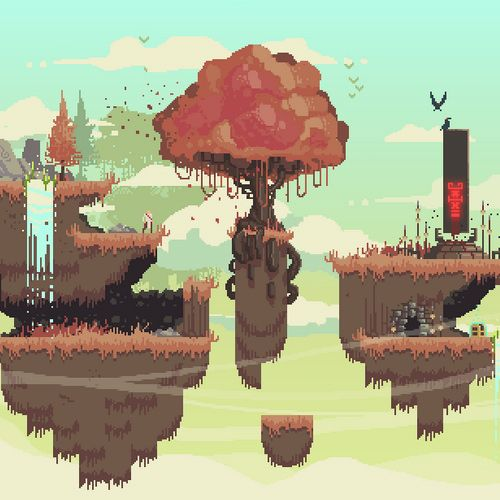
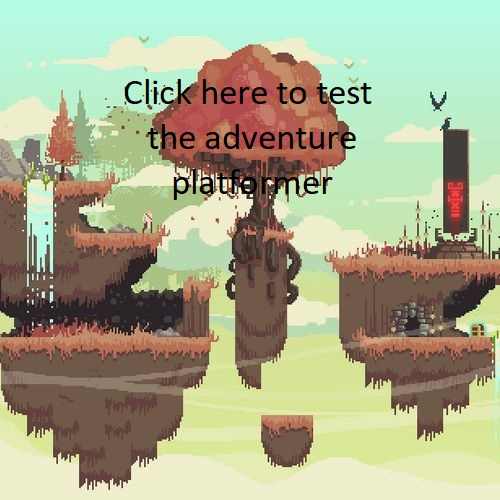
HTML instructions
Changes to the html for instructions on how to play the games

Changed region(s): [[0.24, 0.15, 0.75, 0.21], [0.3, 0.24, 0.72, 0.3], [0.33, 0.33, 0.66, 0.42]]

diff --git a/game_examples/skypath.html b/game_examples/skypath.html
@@ -6,12 +6,25 @@
 	</head>
 
 	<body>
-		<canvas id="pageCanvas"></canvas>
+		
 		<script src="libraries/p5.min.js"></script>
 		<script src="libraries/p5.sound.js"></script>
 		<script src="libraries/matter.js"></script>
-		  <script language="javascript" type="text/javascript" src="http://hemgamedev.atwebpages.com/game_examples/libraries/hemgine.js"></script>
-	    <script src="skyPath.js"></script>	
+		<script language="javascript" type="text/javascript" src="http://hemgamedev.atwebpages.com/game_examples/libraries/hemgine.js"></script>
+	    <script src="skyPath.js"></script>
+		
+		<div style="color:black;">
+	
+		<h1>Welcome to Path of the Sky Test Game</h1>
+		by Mr Hem</br></br>
+		Click the mouse to teleport for collision testing. </br>
+		Press A when on the npc man to talk to him </br>
+		Press left and right arrow to move </br>
+		Press up arrow to jump </br>
+		</div>
+		
 	</body>
 
+	
+		
 </html>

diff --git a/game_examples/platformer.html b/game_examples/platformer.html
@@ -6,7 +6,12 @@
 	</head>
 
 	<body>
-		<canvas id="pageCanvas"></canvas>
+		<h1>2D Platformer Physics Test Game </h1>
+		by Mr Hem </br></br>
+		Player 1: Left, Right Arrows to move, Up to kump </br>
+		Player 2: A,S to move and W to Jump </br>
+		Who ever collects the fastest wins </br>
+		
 	    <script src="libraries/p5.min.js"></script>
 		<script src="libraries/p5.sound.js"></script>
 		<script src="libraries/matter.js"></script>

diff --git a/game_examples/maze.html b/game_examples/maze.html
@@ -6,7 +6,12 @@
 	</head>
 
 	<body>
-		<canvas id="pageCanvas"></canvas>
+		<h1>2D Maze Test Game </h1>
+		by Mr Hem </br></br>
+		Player 1: Up, Down, Left, Right Arrows to move </br>
+		Player 2: A,S,D,W to move </br>
+		Who ever collects the fastest wins </br>
+		
 	</body>
 		<script src="libraries/p5.min.js"></script>
 		<script src="libraries/p5.sound.js"></script>

diff --git a/game_examples/FPS.html b/game_examples/FPS.html
@@ -7,7 +7,10 @@
 	</head>
 
 	<body>
-		<canvas id="pageCanvas"></canvas>
+		<h1>2D First Person Target Practise Test Game </h1>
+		by Mr Hem </br></br>
+			Click The Mouse To shoot HURRY!! </br>
+
 	</body>
 		<script src="libraries/p5.min.js"></script>
 		<script src="libraries/p5.sound.js"></script>

diff --git a/game_examples/game.html b/game_examples/game.html
@@ -19,5 +19,9 @@
 </head>
 
 <body>
+	<div>
+	<h1>This is a Matter.js physics engine test</h1>
+	Click and drag the items on screen </br></br>
+	</div>
 </body>
 </html>
